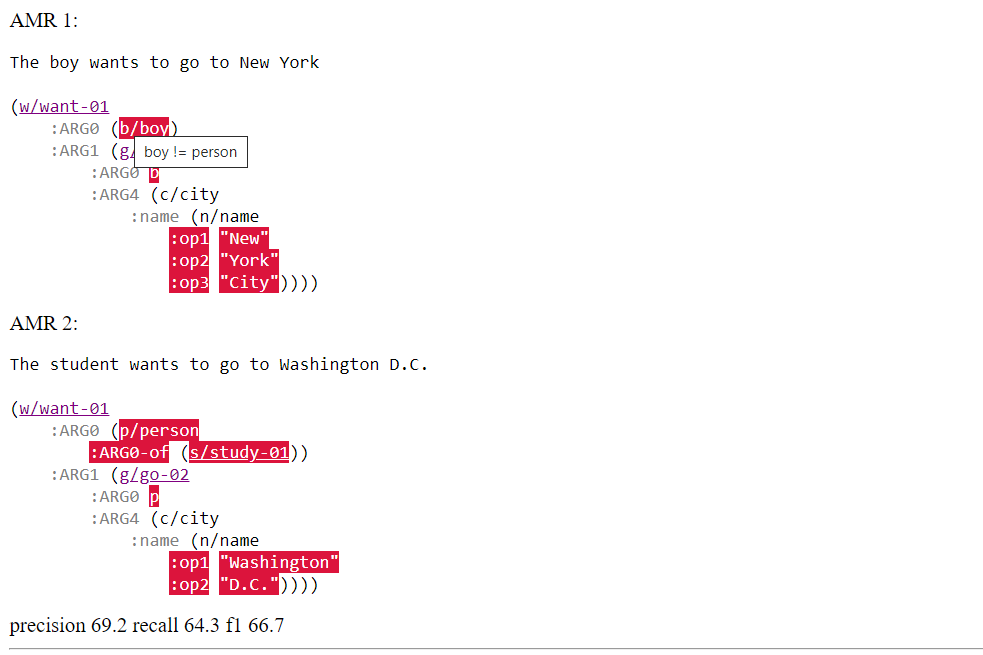
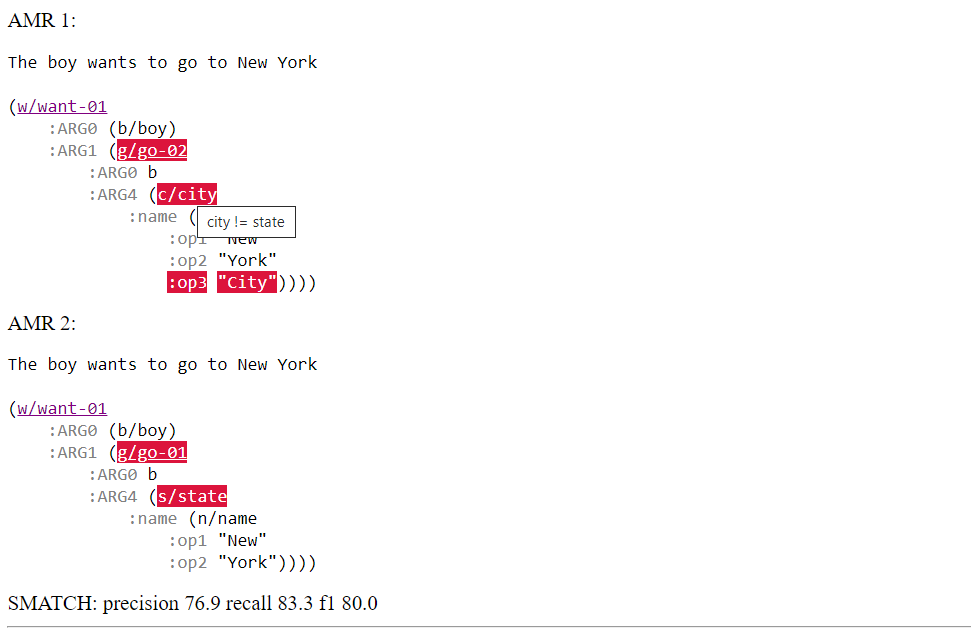
Update images, test data, and amr_diff.py

diff --git a/amr_utils/graph_utils.py b/amr_utils/graph_utils.py
@@ -223,15 +223,15 @@ def get_node_alignment(amr1:AMR, amr2:AMR):
             continue
         b = prefix2 + str(j)
         align_map[node_map1[a]] = node_map2[b]
-    for s,r,t in amr1.edges:
+    if amr1.root not in align_map:
+        align_map[amr1.root] = amr2.root
+    for s,r,t in breadth_first_edges(amr1, ignore_reentrancies=True):
         if t not in align_map:
             for s2,r2,t2 in amr2.edges:
                 if align_map[s]==s2 and r==r2 and amr1.nodes[t]==amr2.nodes[t2]:
                     align_map[t] = t2
             if t not in align_map:
                 align_map[t] = align_map[s]
-    if amr1.root not in align_map:
-        align_map[amr1.root] = amr2.root
 
     if not all(n in align_map for n in amr1.nodes):
         raise Exception('Failed to build node alignment:', amr1.id, amr2.id)

diff --git a/amr_utils/amr_diff.py b/amr_utils/amr_diff.py
@@ -82,6 +82,9 @@ def is_correct_node_desc(amr, n, other_args=None):
         node_map = map2
     if amr.nodes[n] == other_amr.nodes[node_map[n]]:
         return ''
+    if not amr.nodes[n][0].isalpha() or amr.nodes[n] in ['imperative', 'expressive', 'interrogative']:
+        s,r,t = [(s,r,t) for s,r,t in amr.edges if t==n][0]
+        return f'No corresponding attribute {other_amr.nodes[node_map[s]]} {r} {amr.nodes[t]}'
     return f'{amr.nodes[n]} != {other_amr.nodes[node_map[n]]}'
 
 

diff --git a/amr_utils/style.py b/amr_utils/style.py
@@ -284,6 +284,7 @@ class HTML_AMR:
                                     assign_edge_color, assign_edge_desc,
                                     assign_token_color, assign_token_desc,
                                     other_args)
+            output += '<hr>\n'
         output += '</body>\n'
         output += '</html>\n'
         return output
